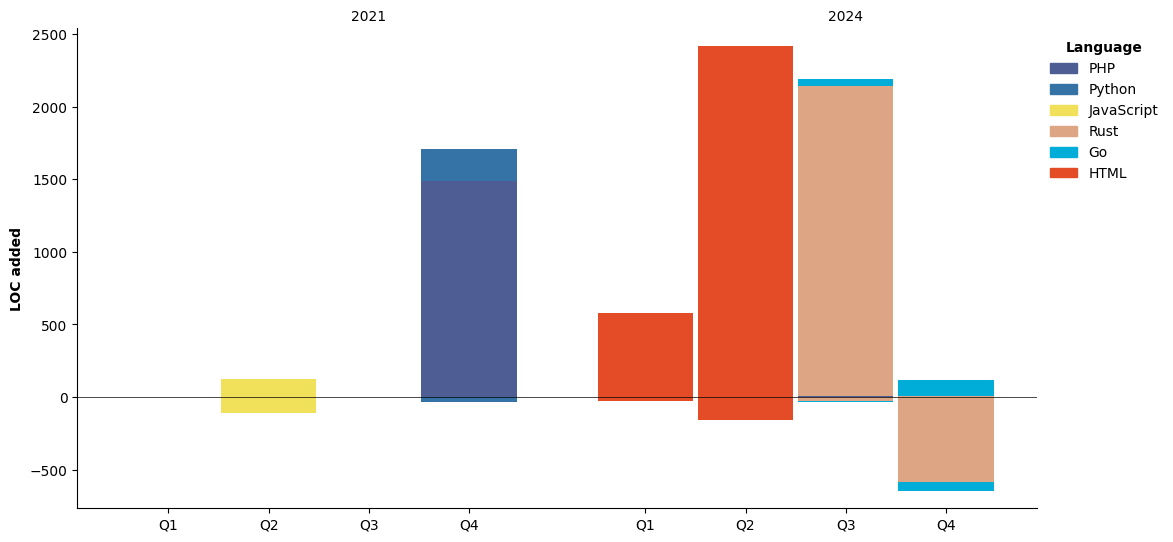
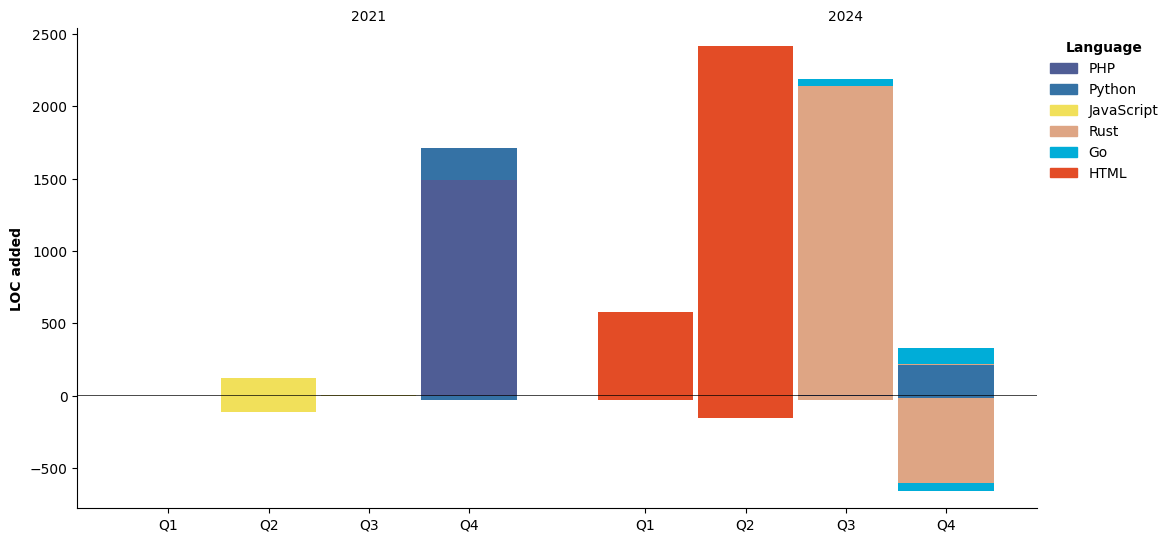
Updated with Dev Metrics

diff --git a/README.md b/README.md
@@ -10,12 +10,81 @@
   <img src="https://img.shields.io/badge/Git-F05032?style=for-the-badge&logo=Git&logoColor=white"><img src="https://img.shields.io/badge/GitHub-181717?style=for-the-badge&logo=GitHub&logoColor=white"><img src="https://img.shields.io/badge/Rust-000000?style=for-the-badge&logo=Rust&logoColor=white"><img src="https://img.shields.io/badge/Python-3776AB?style=for-the-badge&logo=Python&logoColor=white">
 </div>
 <!--START_SECTION:waka-->
+![Code Time](http://img.shields.io/badge/Code%20Time-32%20hrs%201%20min-blue)
+
+![Profile Views](http://img.shields.io/badge/Profile%20Views-199-blue)
+
+**🐱 My GitHub Data** 
+
+> 📦 42.5 kB Used in GitHub's Storage 
+ > 
+> 🚫 Not Opted to Hire
+ > 
+> 📜 5 Public Repositories 
+ > 
+> 🔑 4 Private Repositories 
+ > 
+**I'm a Night 🦉** 
 
 ```text
-🌞 Morning                13 commits          ███░░░░░░░░░░░░░░░░░░░░░░   11.02 % 
-🌆 Daytime                9 commits           ██░░░░░░░░░░░░░░░░░░░░░░░   07.63 % 
-🌃 Evening                60 commits          █████████████░░░░░░░░░░░░   50.85 % 
-🌙 Night                  36 commits          ████████░░░░░░░░░░░░░░░░░   30.51 % 
+🌞 Morning                13 commits          ███░░░░░░░░░░░░░░░░░░░░░░   10.74 % 
+🌆 Daytime                9 commits           ██░░░░░░░░░░░░░░░░░░░░░░░   07.44 % 
+🌃 Evening                63 commits          █████████████░░░░░░░░░░░░   52.07 % 
+🌙 Night                  36 commits          ███████░░░░░░░░░░░░░░░░░░   29.75 % 
 ```
- Last Updated on 22/10/2024 18:44:14 UTC
+📅 **I'm Most Productive on Sunday** 
+
+```text
+Monday                   5 commits           █░░░░░░░░░░░░░░░░░░░░░░░░   04.13 % 
+Tuesday                  10 commits          ██░░░░░░░░░░░░░░░░░░░░░░░   08.26 % 
+Wednesday                8 commits           ██░░░░░░░░░░░░░░░░░░░░░░░   06.61 % 
+Thursday                 31 commits          ██████░░░░░░░░░░░░░░░░░░░   25.62 % 
+Friday                   24 commits          █████░░░░░░░░░░░░░░░░░░░░   19.83 % 
+Saturday                 1 commits           ░░░░░░░░░░░░░░░░░░░░░░░░░   00.83 % 
+Sunday                   42 commits          █████████░░░░░░░░░░░░░░░░   34.71 % 
+```
+
+
+📊 **This Week I Spent My Time On** 
+
+```text
+🕑 Time Zone: America/Anchorage
+
+💬 Programming Languages: 
+Markdown                 1 hr 7 mins         █████████████████░░░░░░░░   68.51 % 
+Git Config               19 mins             █████░░░░░░░░░░░░░░░░░░░░   20.14 % 
+Go                       4 mins              █░░░░░░░░░░░░░░░░░░░░░░░░   04.30 % 
+YAML                     3 mins              █░░░░░░░░░░░░░░░░░░░░░░░░   03.30 % 
+Rust                     2 mins              █░░░░░░░░░░░░░░░░░░░░░░░░   02.40 % 
+
+🔥 Editors: 
+Cursor                   1 hr 38 mins        █████████████████████████   100.00 % 
+
+🐱💻 Projects: 
+README                   1 hr 10 mins        ██████████████████░░░░░░░   71.80 % 
+Rust                     23 mins             ██████░░░░░░░░░░░░░░░░░░░   23.90 % 
+2024OpensourcePrograming_4 mins              █░░░░░░░░░░░░░░░░░░░░░░░░   04.30 % 
+
+💻 Operating System: 
+Windows                  1 hr 38 mins        █████████████████████████   100.00 % 
+```
+
+**I Mostly Code in Python** 
+
+```text
+Python                   2 repos             ███████░░░░░░░░░░░░░░░░░░   28.57 % 
+Go                       1 repo              ████░░░░░░░░░░░░░░░░░░░░░   14.29 % 
+Rust                     1 repo              ████░░░░░░░░░░░░░░░░░░░░░   14.29 % 
+HTML                     1 repo              ████░░░░░░░░░░░░░░░░░░░░░   14.29 % 
+PHP                      1 repo              ████░░░░░░░░░░░░░░░░░░░░░   14.29 % 
+```
+
+
+
+**Timeline**
+
+![Lines of Code chart](https://raw.githubusercontent.com/Jeong8537/Jeong8537/main/assets/bar_graph.png)
+
+
+ Last Updated on 23/10/2024 18:44:05 UTC
 <!--END_SECTION:waka-->
